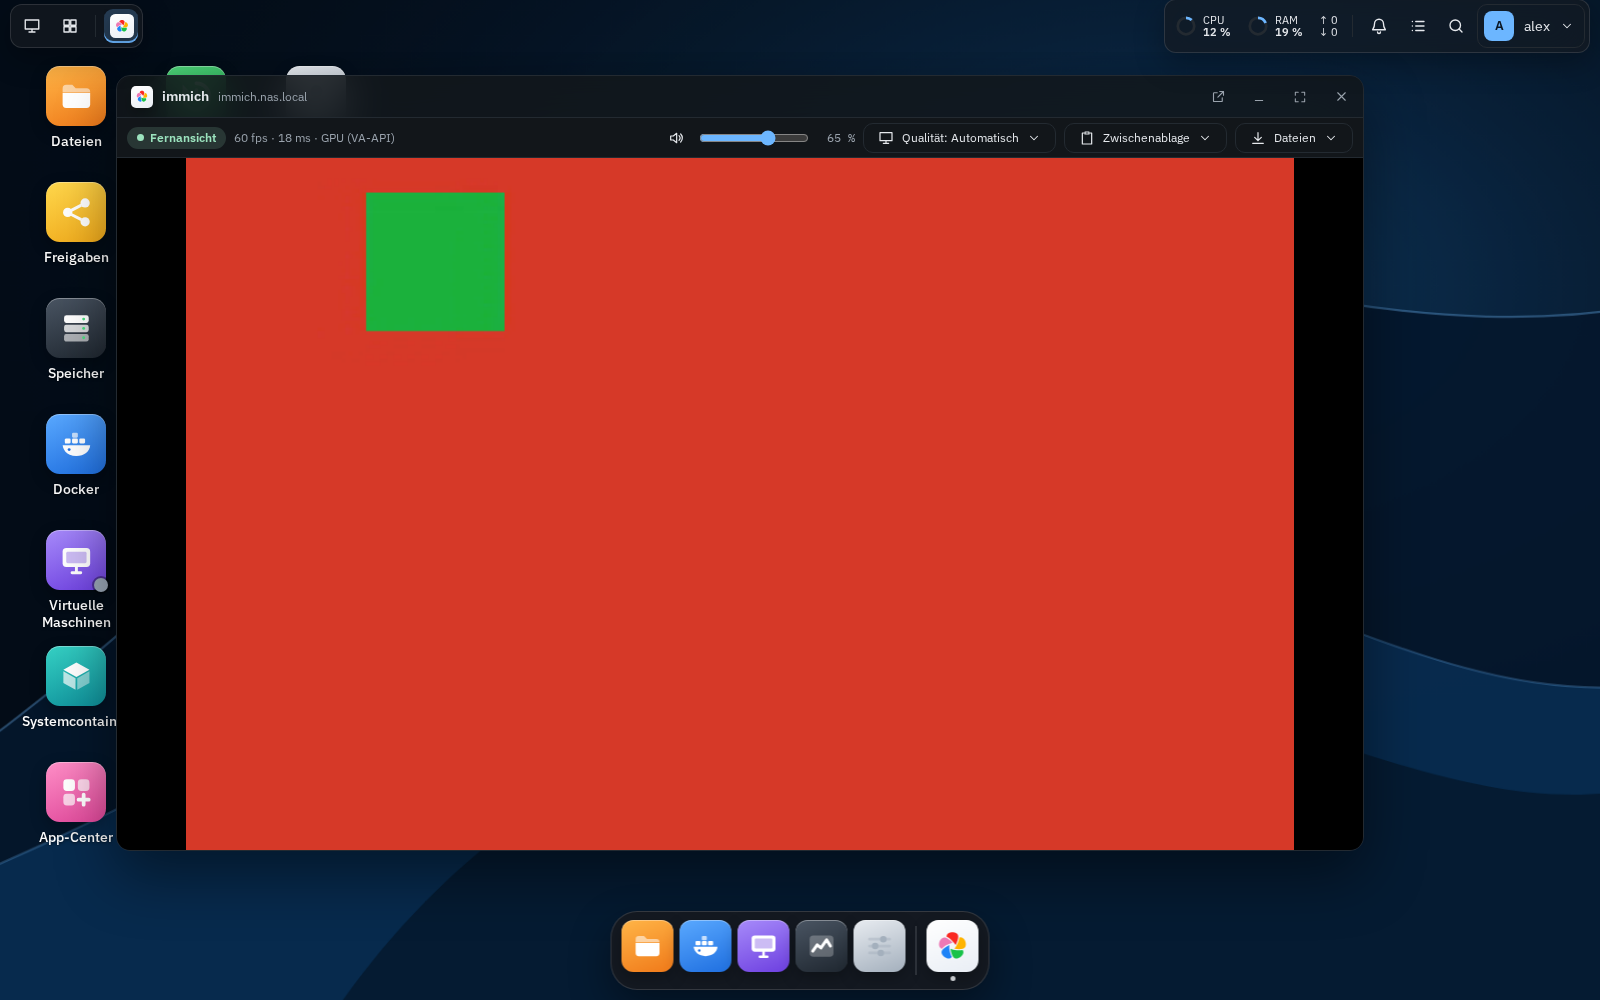
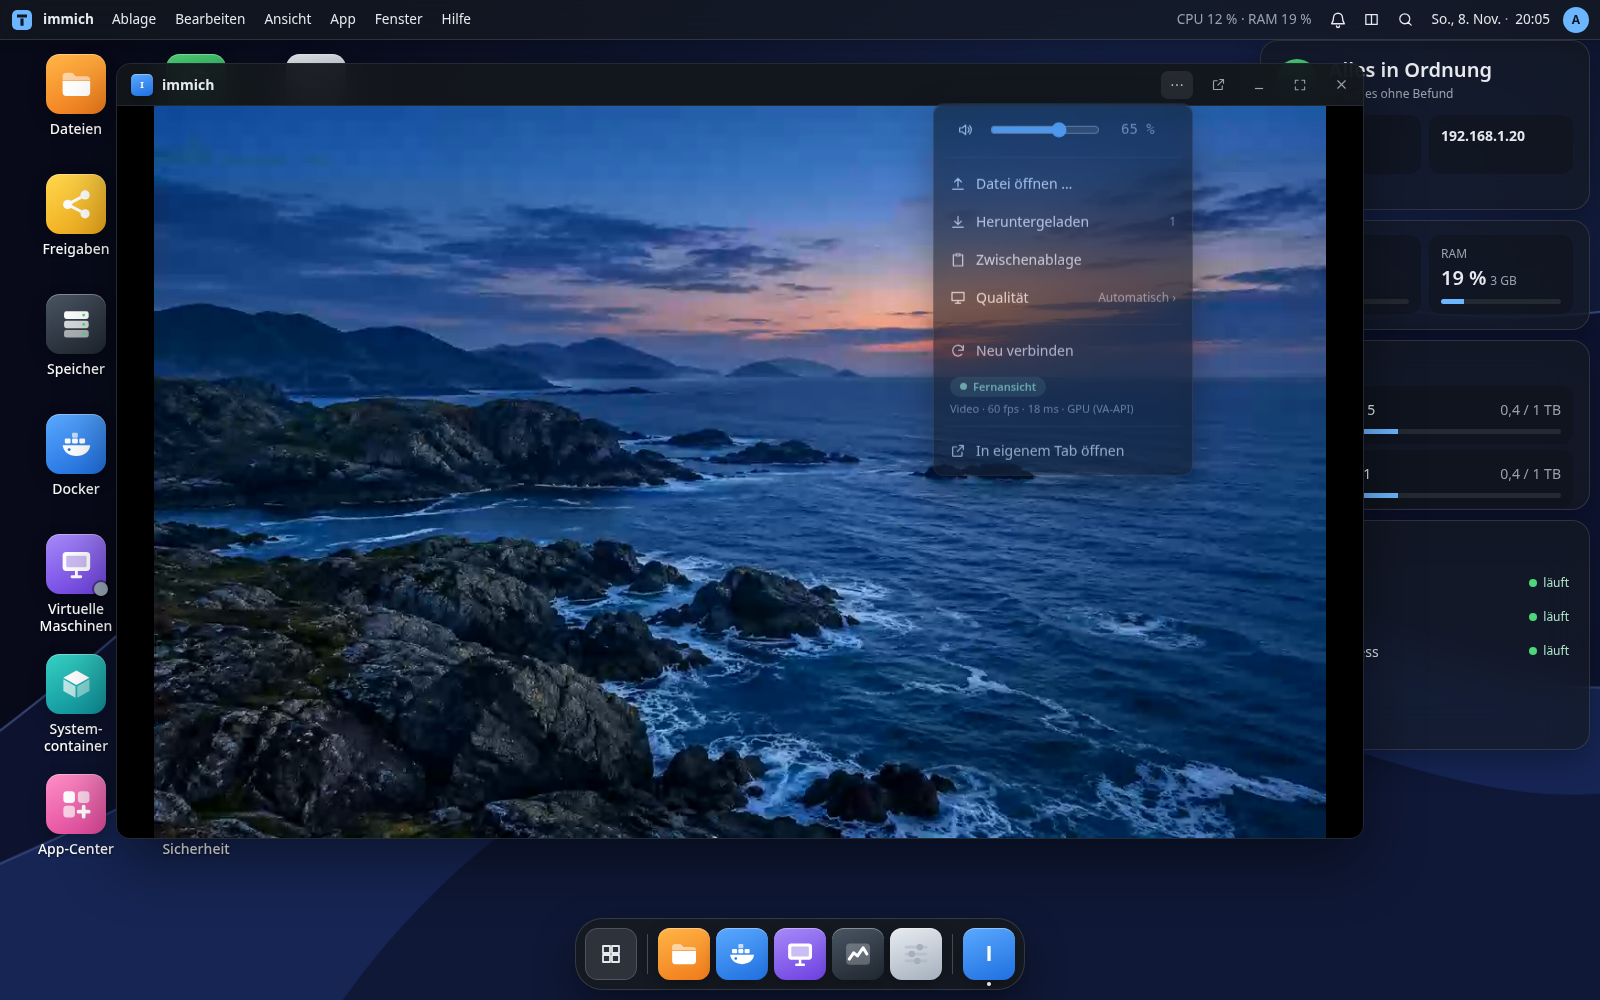
README: letzte alte Bilder durch Aufnahmen von 0.70 ersetzt (#298)
* README: letzte alte Bilder durch Aufnahmen von 0.70 ersetzt

Hauptmenü, Dock bearbeiten, Systemsteuerung und Fernansicht (Fenster und
Handy) stammten noch aus 0.62. Die Fernansicht zeigt jetzt das Foto
„Küste“ statt der roten Testfläche (VIEWER_PICTURE im Viewer-Test).

* README: 64-Bit klar nennen, 32-Bit-UEFI nur als Startweg älterer Rechner

---------

diff --git a/docs/screenshots/README.md b/docs/screenshots/README.md
@@ -2,11 +2,11 @@
 
 `current/` enthält die aktuellen Aufnahmen für die Projekt-README und die Fachdokumente.
 
-**Aufnahmestand:** Arbeitsplatz, Anmeldeseite, Docker, Dateien, Virtuelle Maschinen, Freigaben, Speicher, Darstellung und Handy-Start zeigen **TitanOS 0.70.0** (Zweig `feat/0.70`), aufgenommen am **8. November 2026** mit `scripts/capture-readme-screenshots.mjs` (Chromium/Playwright gegen `vite dev`, Theme Graphit, blauer Akzent, Deutsch, Fenster maximiert). Die Docker-Apps (immich, jellyfin, paperless, home-assistant, vaultwarden) sind Beispieldaten des Skripts mit Buchstaben-Symbolen. Hauptmenü, Systemsteuerung, Dock bearbeiten und die Fernansicht stammen noch aus der Aufnahme von 0.62.0 (7. November 2026); ihre Oberfläche hat sich seither nur wenig geändert.
+**Aufnahmestand:** Alle in der README eingebundenen Bilder zeigen **TitanOS 0.70.0** (Zweig `feat/0.70`), aufgenommen am **8. November 2026** mit `scripts/capture-readme-screenshots.mjs` (Chromium/Playwright gegen `vite dev`, Theme Graphit, blauer Akzent, Deutsch, Fenster maximiert). Die Docker-Apps (immich, jellyfin, paperless, home-assistant, vaultwarden) sind Beispieldaten des Skripts mit Buchstaben-Symbolen. Die Fernansicht kommt aus `scripts/test-ui-viewer.mjs` mit `VIEWER_PICTURE=/backgrounds/kueste.webp`.
 
 Ältere Bilder in `current/` (Speicher, Freigaben, Dateien, Firewall, VM erstellen, Protokoll, Dateiaufträge, KI-Agent) zeigen die **alte Oberfläche** mit Kopfzeile (0.47.1 bzw. KI-Agent 0.51.0/0.54.0). Kopfzeile und Seitennavigation sind seit 0.62.0 entfernt; diese Bilder sind nur noch in Fachdokumenten verlinkt (VM erstellen, Protokoll) bzw. als Nachweis ihrer damaligen Prüfungen und werden in der README nicht mehr eingebunden. Die Aufnahmen des alten Dashboards und der alten Navigation sind entfernt.
 
-Alle NAS-Antworten werden durch isolierte Demonstrationsdaten ersetzt (`scripts/test-ui-fixtures.mjs`). Hostname, Konten, Dateien, Laufwerke, Adressen und Messwerte sind Beispiele. Es werden weder echte NAS-Geräte angesprochen noch Container oder VMs gestartet. Das Bild in der **Fernansicht** ist ein nachgebildeter Strom (rote Fläche mit grünem Quadrat, im Browser selbst kodiert), keine echte App. Die sichtbaren App-Symbole (immich, jellyfin, paperless, vaultwarden) sind die Originalbilder der Projekte aus dem Zwischenspeicher `out/readme-icons/` (SHA-256 bei der Aufnahme mit `icon-sources.json` verglichen, gleich); Quellen und SHA-256 stehen in [icon-sources.json](icon-sources.json), Namen und Logos gehören den jeweiligen Projekten. Keine nachträgliche Bildbearbeitung und keine Design-Mockups. Die Bilder ersetzen keine Funktions- oder Hardwareprüfung.
+Alle NAS-Antworten werden durch isolierte Demonstrationsdaten ersetzt (`scripts/test-ui-fixtures.mjs`). Hostname, Konten, Dateien, Laufwerke, Adressen und Messwerte sind Beispiele. Es werden weder echte NAS-Geräte angesprochen noch Container oder VMs gestartet. Das Bild in der **Fernansicht** ist ein nachgebildeter Strom (das mitgelieferte Foto „Küste“, im Browser selbst als Video kodiert), keine echte App. Die App-Symbole sind Buchstaben, keine Logos der Projekte ([icon-sources.json](icon-sources.json) gehört zu älteren Aufnahmen). Keine nachträgliche Bildbearbeitung und keine Design-Mockups. Die Bilder ersetzen keine Funktions- oder Hardwareprüfung.
 
 [capture.json](current/capture.json) nennt Quellstand, Aufnahmedatum und für jedes Bild Aufnahmeskript, Originaldatei der Skriptausgabe, Größe und SHA-256.
 
@@ -15,13 +15,13 @@ Alle NAS-Antworten werden durch isolierte Demonstrationsdaten ersetzt (`scripts/
 | Datei | Inhalt | Darstellung |
 |---|---|---|
 | [arbeitsplatz.png](current/arbeitsplatz.png) | Arbeitsplatz: Programmsymbole mit Abzeichen (Update, läuft/gestoppt), Widgets rechts (Zustand, CPU/RAM, Volumes, Docker-Apps), Leisten oben, Dock | Desktop 1600 × 1000 |
-| [fernansicht.png](current/fernansicht.png) | Fenster der Docker-App „immich“ in der Fernansicht: Zustand, Bildrate, GPU, Lautstärke, Qualität, Zwischenablage, Dateien; Bild nachgebildet | Desktop 1600 × 1000 |
+| [fernansicht.png](current/fernansicht.png) | Fenster der Docker-App „immich“ in der Fernansicht mit geöffnetem Menü „…“: Lautstärke, Datei öffnen, Zwischenablage, Qualität, Zustand; Bild nachgebildet | Desktop 1600 × 1000 |
 | [hauptmenue.png](current/hauptmenue.png) | Hauptmenü mit Suche, Filtern, Programmen, Docker-Apps und VM-Bildschirm, unten Konto, Sperren, Ein/Aus | Desktop 1600 × 1000 |
 | [docker.png](current/docker.png) | Programm Docker (Fenster maximiert): Seitenleiste, Werkzeugleiste, Container-Karten | Desktop 1600 × 1000 |
 | [vms.png](current/vms.png) | Programm Virtuelle Maschinen: „Deine VMs“ in der Seitenleiste, Übersicht einer VM mit Gefahrenzone | Desktop 1600 × 1000 |
-| [systemsteuerung.png](current/systemsteuerung.png) | Systemsteuerung › Alle Einstellungen mit Suche und Bereichen | Desktop 1600 × 1000 |
-| [darstellung.png](current/darstellung.png) | Systemsteuerung › Darstellung: Theme, Variante, Akzent, fünf Schieberegler | Desktop 1600 × 1000 |
-| [dock-bearbeiten.png](current/dock-bearbeiten.png) | Dock bearbeiten: Größe, Deckkraft, Vergrößern, Position | Desktop 1600 × 1000 |
+| [systemsteuerung.png](current/systemsteuerung.png) | Systemsteuerung › Übersicht: Seitenleiste mit Suche, Zustand, Dienste, Zu erledigen | Desktop 1600 × 1000 |
+| [darstellung.png](current/darstellung.png) | Systemsteuerung › Darstellung: Theme, Variante, Akzent, Glas von Klar bis Getönt, Hintergründe | Desktop 1600 × 1000 |
+| [dock-bearbeiten.png](current/dock-bearbeiten.png) | Dock bearbeiten: Größe, Deckkraft, Vergrößern, Position; Programme im Dock mit × | Desktop 1600 × 1000 |
 | [anmeldeseite.png](current/anmeldeseite.png) | Anmeldeseite nach dem Abmelden: Uhr, Glaskarte, Sprache | Desktop 1440 × 900 |
 | [handy-start.png](current/handy-start.png) | Startbildschirm am Handy: Suche, Zustand, App-Raster mit Docker-Apps | Smartphone 390 × 844 |
 | [fernansicht-mobil.png](current/fernansicht-mobil.png) | Fernansicht am Handy im Vollbild mit Lautstärke und Tastatur | Smartphone 390 × 844 |

diff --git a/README.md b/README.md
@@ -67,7 +67,7 @@
 
 <p align="center"><sub>Alle Bilder zeigen die echte Oberfläche mit Beispieldaten. Keine Mockups. <a href="docs/screenshots/README.md">Aufnahmestand</a>.</sub></p>
 
-TitanOS basiert auf **Debian 13** und startet per UEFI, 32-Bit-UEFI oder Legacy-BIOS von einem USB-Stick. Daten, Apps und VMs liegen auf eigenen Volumes, die Konfiguration bleibt auf dem Stick. Die Bedienidee ist von Unraid inspiriert. TitanOS setzt auf klassisches Linux-Software-RAID und ist ein eigenständiges Projekt ohne Verbindung zu Lime Technology.
+TitanOS basiert auf **Debian 13** und läuft auf jedem 64-Bit-PC (x86-64) und startet von einem USB-Stick, normal per UEFI. Ältere Rechner mit 32-Bit-UEFI-Firmware oder Legacy-BIOS starten ebenfalls; das System bleibt auch dort 64-Bit. Daten, Apps und VMs liegen auf eigenen Volumes, die Konfiguration bleibt auf dem Stick. Die Bedienidee ist von Unraid inspiriert. TitanOS setzt auf klassisches Linux-Software-RAID und ist ein eigenständiges Projekt ohne Verbindung zu Lime Technology.
 
 ## Funktionen
 
@@ -89,7 +89,7 @@ Alles im Einzelnen – zum Aufklappen.
 - **Am Handy:** Startbildschirm mit Suche und App-Raster; jedes Programm und jede Docker-App öffnet im Vollbild mit „Zurück“. Ränder für Notch und Home-Leiste, keine vergrößernden Eingabefelder in Safari.
 - **Klare Rückfragen statt Eintippen:** Löschen, Überschreiben, Plattentests, Zwei-Faktor-Zurücksetzen, SSH-Schlüssel und Zertifikate entfernen bestätigt man in einem Dialog, der genau nennt, was passiert. Namen müssen nirgends eingetippt werden; „Abbrechen“ hat den Fokus, Enter löst nie die gefährliche Aktion aus. Zerstörende Knöpfe stehen gesammelt in einer abgesetzten „Gefahrenzone“ am Ende. Fachbegriffe erklärt ein „?“ direkt daneben.
 
-[![Hauptmenü mit Suche, Filtern, Programmen und Docker-Apps](docs/screenshots/current/hauptmenue.png)](docs/screenshots/current/hauptmenue.png)
+[![Hauptmenü mit Suche, Filtern, Programmen, Docker-Apps und VM-Bildschirm](docs/screenshots/current/hauptmenue.png)](docs/screenshots/current/hauptmenue.png)
 
 [Dock bearbeiten](docs/screenshots/current/dock-bearbeiten.png) · [Beschreibung des Desktop-Modus](docs/DESKTOP.md) · [Sperrbildschirm](docs/SESSION-LOCK.md)
 
@@ -161,7 +161,7 @@ Alles im Einzelnen – zum Aufklappen.
 
 [![Programm Docker im Fenster: Seitenleiste, Werkzeugleiste und Container-Karten mit App-Symbolen](docs/screenshots/current/docker.png)](docs/screenshots/current/docker.png)
 
-[![Docker-App „immich“ in der Fernansicht im Fenster, mit Lautstärke, Qualität, Zwischenablage und Dateien (Bild nachgebildet)](docs/screenshots/current/fernansicht.png)](docs/screenshots/current/fernansicht.png)
+[![Docker-App „immich“ in der Fernansicht im Fenster, Menü mit Lautstärke, Dateien, Zwischenablage und Qualität (Bild nachgebildet)](docs/screenshots/current/fernansicht.png)](docs/screenshots/current/fernansicht.png)
 
 [Fernansicht](docs/FERNANSICHT.md) · [App-Fenster, Rechte und Zertifizierungsstelle](docs/APP-WINDOWS.md) · [App-Links](docs/APP-LINKS.md) · [HTTPS-Namen für Apps](docs/APP-PROXY.md) · [Immich und Ollama-Vorlagen](docs/NATIVE-APPS.md)
 
@@ -298,11 +298,11 @@ Die VM-Einrichtung zeigt kompakte Kacheln mit einer gemeinsamen Zusammenfassung.
 - **Deutsch und Englisch**, lokale Schriftdateien, Tastatur- und Touch-Bedienung.
 - **Dienste nach Bedarf:** Docker, VMs und LXC lassen sich unter Systemsteuerung › Dienste ausschalten; ihr Programm verschwindet, die Daten bleiben.
 
-[![Systemsteuerung › Alle Einstellungen mit Suche und Bereichen nach System, Netzwerk sowie Konten und Diensten](docs/screenshots/current/systemsteuerung.png)](docs/screenshots/current/systemsteuerung.png)
+[![Systemsteuerung › Übersicht mit Seitenleiste, Zustand, Diensten und offenen Aufgaben](docs/screenshots/current/systemsteuerung.png)](docs/screenshots/current/systemsteuerung.png)
 
 [![Anmeldeseite mit bewegtem Nordlicht und Kontobildern](docs/screenshots/current/anmeldeseite.png)](docs/screenshots/current/anmeldeseite.png)
 
-[Systemsteuerung › Darstellung mit fünf Schiebereglern](docs/screenshots/current/darstellung.png) · [Anmeldeseite gestalten](docs/LOGIN-APPEARANCE.md)
+[Systemsteuerung › Darstellung](docs/screenshots/current/darstellung.png) · [Anmeldeseite gestalten](docs/LOGIN-APPEARANCE.md)
 
 <p align="center">
   <a href="docs/screenshots/current/handy-start.png"><img src="docs/screenshots/current/handy-start.png" alt="Startbildschirm am Smartphone: Suche, Zustand und App-Raster mit Programmen und Docker-Apps" width="260"></a>
@@ -330,7 +330,7 @@ TitanOS nutzt einen **Stable-Kanal**. Die Weboberfläche prüft und installiert 
 
 | Bereich | Voraussetzung |
 |---|---|
-| Rechner | x86-64/amd64 mit UEFI, 32-Bit-UEFI oder Legacy-BIOS (dafür das Stick-Abbild oder `boot/grub/stick-bios.py`, siehe `docs/BOOT.md`); Secure Boot für das NAS ausgeschaltet |
+| Rechner | 64-Bit-PC (x86-64/amd64), normal mit UEFI. Auch möglich: 32-Bit-UEFI-Firmware mit 64-Bit-CPU (z. B. Atom „Bay Trail“) oder Legacy-BIOS (dafür das Stick-Abbild oder `boot/grub/stick-bios.py`, siehe `docs/BOOT.md`). Secure Boot für das NAS ausgeschaltet |
 | Arbeitsspeicher | Für erste Tests 4 GB einplanen, zusätzlich RAM für Apps und VMs; keine pauschal abgenommene Hardware-Mindestgröße |
 | Bootmedium | USB-Stick mit 8–32 GB, FAT32, Label `TITANOS` |
 | Nutzdaten | Separate Laufwerke; ein neues Volume löscht die ausgewählten Platten |
